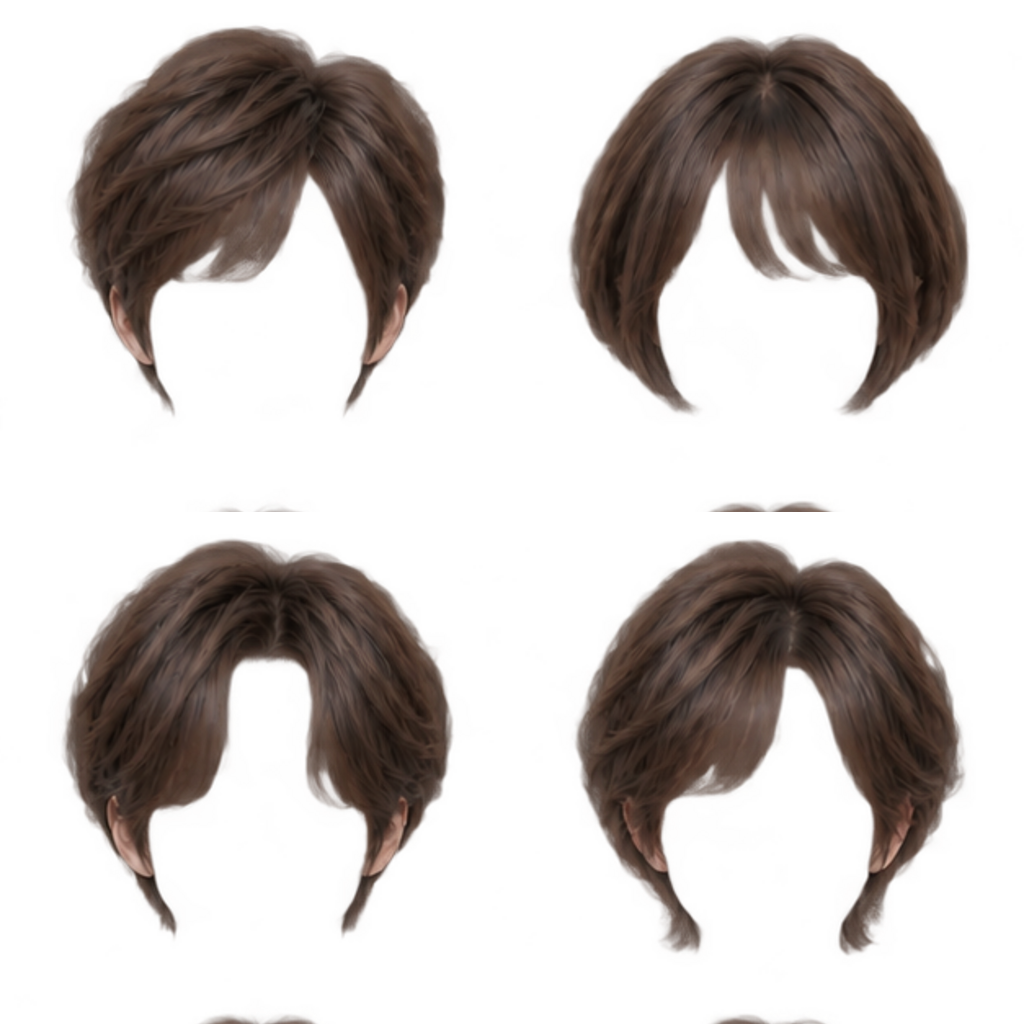
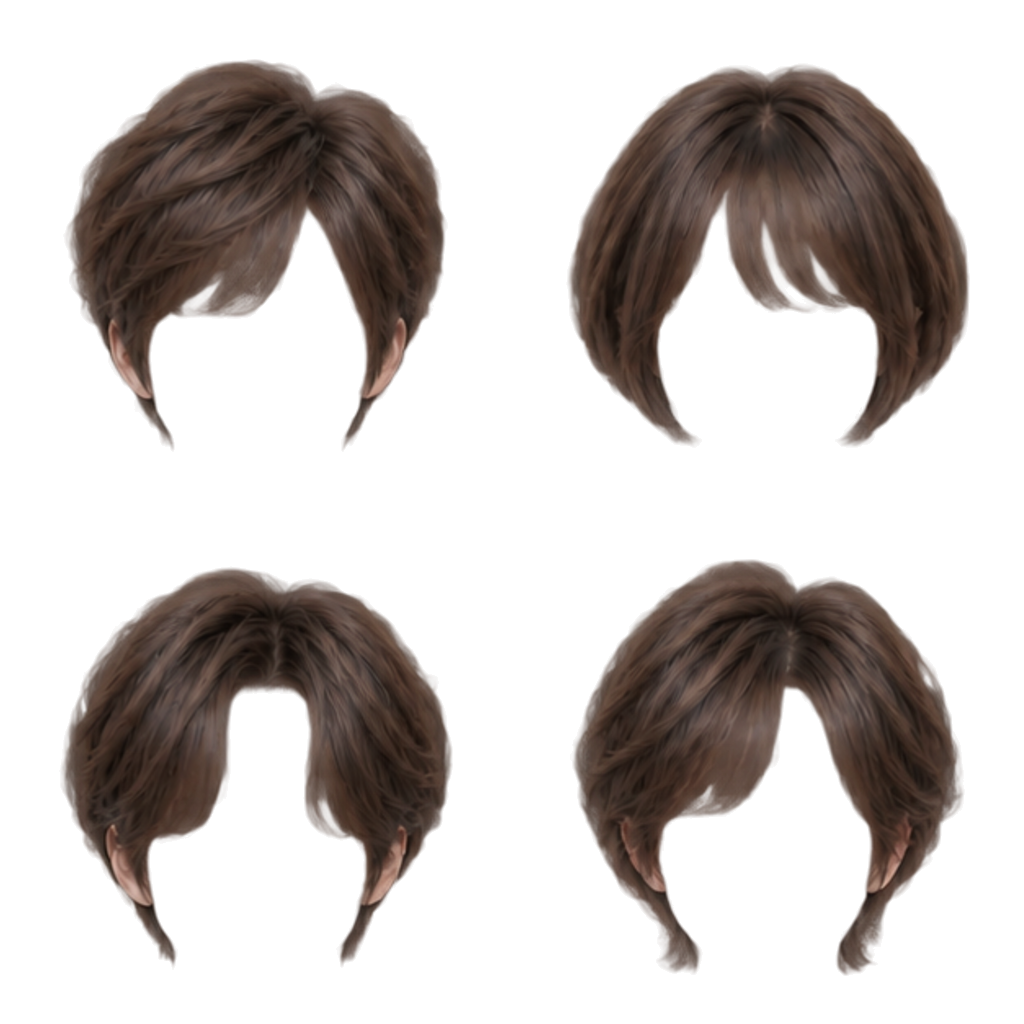
髪型シュミレーション

diff --git a/hair-style-try-on.html b/hair-style-try-on.html
@@ -32,6 +32,11 @@
   </style>
   <style>
     .styles{margin-bottom:18px}.style{background-size:200% 200%}.colors{display:grid;grid-template-columns:repeat(7,1fr);gap:7px;margin:0 0 21px}.color{border:2px solid #fff;outline:1px solid var(--line);aspect-ratio:1;border-radius:50%;background:var(--swatch)}.color.active{outline:3px solid var(--rose)}
+    @media (orientation:landscape) and (min-width:851px) and (max-width:1180px){
+      .app-shell{grid-template-columns:minmax(0,1fr) minmax(300px,360px);gap:15px;padding-top:15px}
+      .canvas-wrap{aspect-ratio:auto;height:calc(100vh - 145px);min-height:360px;max-height:560px}
+      .tools{padding:16px}.hero{padding:30px 20px 22px}
+    }
   </style>
 </head>
 <body>
@@ -98,7 +103,7 @@
     const modernNames=[['エアリーピクシー','丸みショートボブ','マッシュショート','レイヤーショート'],['切りっぱなしボブ','内巻きボブ','フレンチボブ','レイヤーボブ'],['ウルフミディ','鎖骨ロブ','顔まわりレイヤー','くびれミディ'],['前髪ありロングレイヤー','やわらかロングウェーブ','ストレートロング','韓国風ロングレイヤー']];
     const colorNames={natural:'ナチュラル',black:'ブラック','dark-brown':'ダークブラウン',brown:'ブラウン','light-brown':'ライトブラウン',beige:'ベージュ',ash:'アッシュ'},colorValues={black:'#171313','dark-brown':'#2e1e19',brown:'#70472f','light-brown':'#a66f43',beige:'#b18b68',ash:'#696966'};
     let hairColor='natural';const tintCanvas=document.createElement('canvas'),tintCtx=tintCanvas.getContext('2d');
-    const originalDraw=draw;draw=function(){ctx.clearRect(0,0,canvas.width,canvas.height);if(!hasPhoto)return;const [px,py,pw,ph]=cover(photo),ps=photoView.scale,rx=canvas.width/stage.clientWidth,ry=canvas.height/stage.clientHeight;ctx.drawImage(photo,px-(pw*ps-pw)/2+photoView.x*rx,py-(ph*ps-ph)/2+photoView.y*ry,pw*ps,ph*ps);if(hideHair)return;const selectedSheet=sheets[category];if(!selectedSheet.complete||!selectedSheet.width)return;const q=selectedSheet.width/2,sx=(variant%2)*q,sy=Math.floor(variant/2)*q,base=canvas.width*.74*hair.scale;tintCanvas.width=q;tintCanvas.height=q;tintCtx.clearRect(0,0,q,q);tintCtx.globalCompositeOperation='source-over';tintCtx.globalAlpha=1;tintCtx.drawImage(selectedSheet,sx,sy,q,q,0,0,q,q);if(hairColor!=='natural'){tintCtx.globalCompositeOperation='source-atop';tintCtx.globalAlpha=.7;tintCtx.fillStyle=colorValues[hairColor];tintCtx.fillRect(0,0,q,q);tintCtx.globalCompositeOperation='multiply';tintCtx.globalAlpha=.3;tintCtx.drawImage(selectedSheet,sx,sy,q,q,0,0,q,q)}tintCtx.globalAlpha=1;tintCtx.globalCompositeOperation='source-over';ctx.save();ctx.globalAlpha=hair.opacity;ctx.translate(canvas.width/2+hair.x*rx,canvas.height*.40+hair.y*ry);ctx.rotate(hair.rotation*Math.PI/180);ctx.drawImage(tintCanvas,-base/2,-base/2,base,base);ctx.restore()};
+    const originalDraw=draw;draw=function(){ctx.clearRect(0,0,canvas.width,canvas.height);if(!hasPhoto)return;const [px,py,pw,ph]=cover(photo),ps=photoView.scale,rx=canvas.width/stage.clientWidth,ry=canvas.height/stage.clientHeight;ctx.drawImage(photo,px-(pw*ps-pw)/2+photoView.x*rx,py-(ph*ps-ph)/2+photoView.y*ry,pw*ps,ph*ps);if(hideHair)return;const selectedSheet=sheets[category];if(!selectedSheet.complete||!selectedSheet.width)return;const q=selectedSheet.width/2,sx=(variant%2)*q,sy=Math.floor(variant/2)*q,base=canvas.width*.74*hair.scale;tintCanvas.width=q;tintCanvas.height=q;tintCtx.clearRect(0,0,q,q);tintCtx.globalCompositeOperation='source-over';tintCtx.globalAlpha=1;tintCtx.drawImage(selectedSheet,sx,sy,q,q,0,0,q,q);if(hairColor!=='natural'){tintCtx.globalCompositeOperation=hairColor==='black'?'multiply':'color';tintCtx.globalAlpha=hairColor==='black'?.48:.46;tintCtx.fillStyle=colorValues[hairColor];tintCtx.fillRect(0,0,q,q);tintCtx.globalCompositeOperation='source-over';tintCtx.globalAlpha=.34;tintCtx.drawImage(selectedSheet,sx,sy,q,q,0,0,q,q)}tintCtx.globalAlpha=1;tintCtx.globalCompositeOperation='source-over';ctx.save();ctx.globalAlpha=hair.opacity;ctx.translate(canvas.width/2+hair.x*rx,canvas.height*.40+hair.y*ry);ctx.rotate(hair.rotation*Math.PI/180);ctx.drawImage(tintCanvas,-base/2,-base/2,base,base);ctx.restore()};
     document.querySelectorAll('[data-color]').forEach(b=>b.addEventListener('click',()=>{hairColor=b.dataset.color;document.querySelectorAll('[data-color]').forEach(x=>x.classList.toggle('active',x===b));draw()}));
     document.querySelector('#cameraButton').addEventListener('click',()=>{const input=document.querySelector('#camera');input.value='';try{input.showPicker?input.showPicker():input.click()}catch(e){input.click()}});
     document.querySelectorAll('.style').forEach((el,i)=>{el.title=modernNames[category][i]});document.querySelectorAll('[data-category]').forEach(b=>b.addEventListener('click',()=>setTimeout(()=>document.querySelectorAll('.style').forEach((el,i)=>{el.title=modernNames[category][i];el.setAttribute('aria-label',modernNames[category][i])}),0)));
